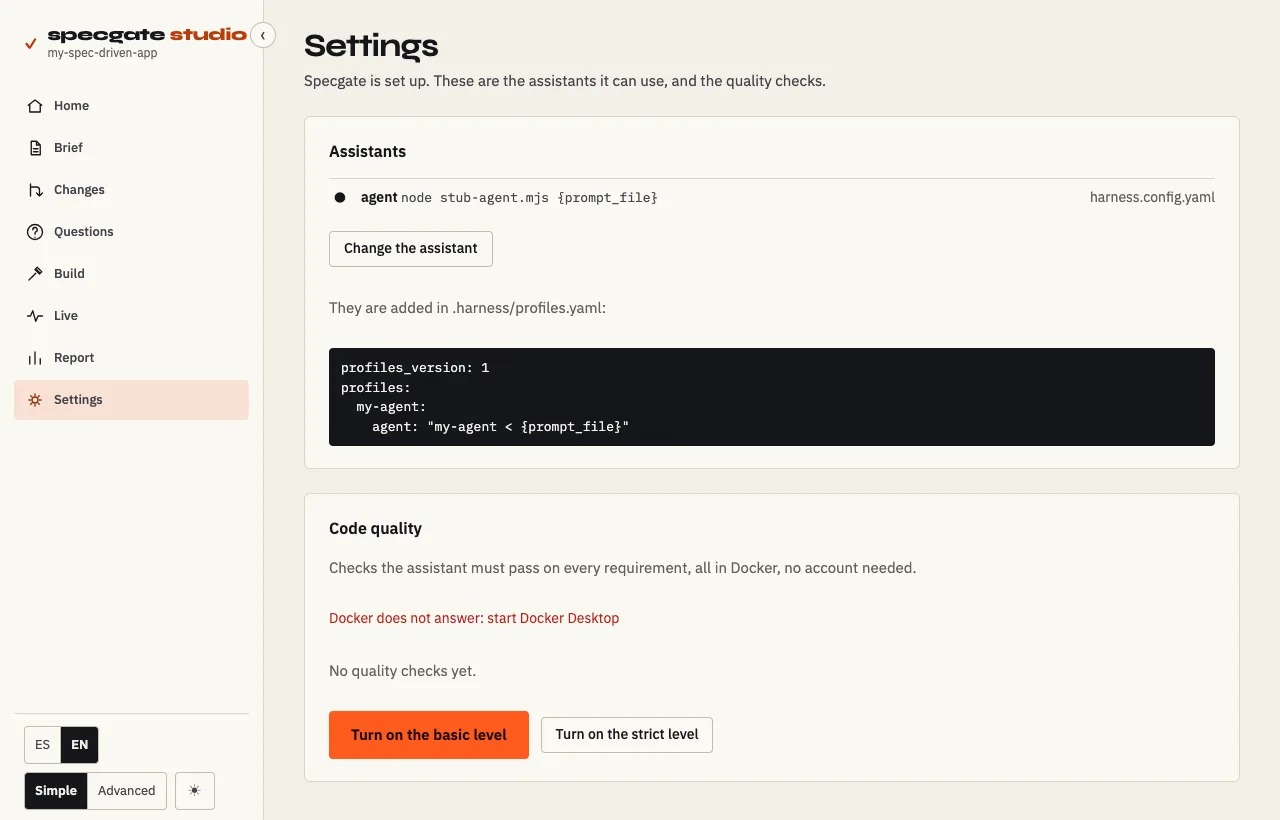
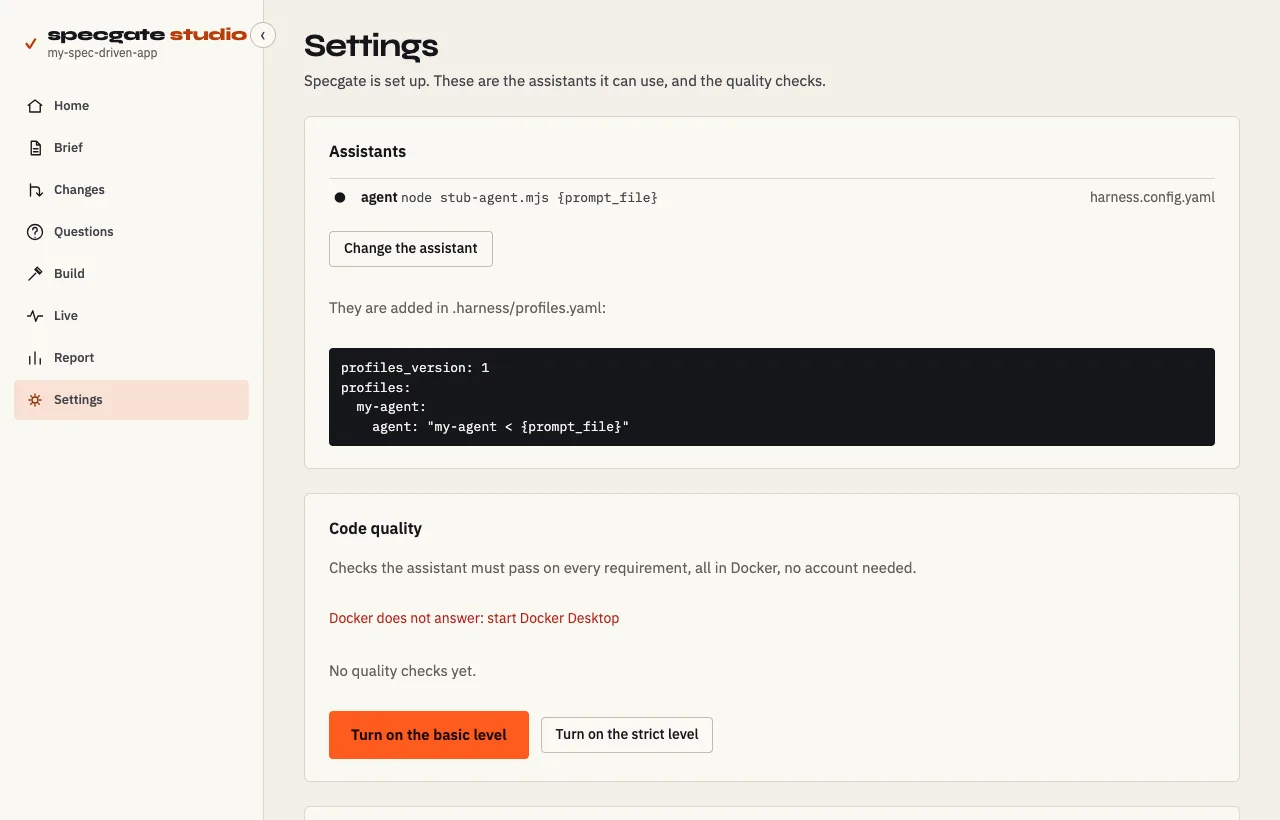
docs and the browser journey for studio-cli-parity: every change to its archive, the gate, apply, preferences and agents, adopting, ALM

Changed region(s): [[0.0, 0.8841, 0.1562, 1.0]]

diff --git a/docs/studio.md b/docs/studio.md
@@ -30,14 +30,19 @@ The sidebar holds eight sections, each at its own address (`/#/questions`,
 
 | Section | What you do there | What it runs |
 | --- | --- | --- |
-| Home | See the next step and the route | `specgate status` |
+| Home | See the next step and the route; run the gate and the doctor | `specgate status`, `check`, `doctor` |
 | Brief | Write what the app must do, or paste the client's text | `propose --from-brief` (with the agent) |
-| Changes | Have each module drafted, review it, ask for changes, approve it | `propose --from-brief <module>`, `change note`, `change approve` |
+| Changes | Every change: draft a module, review, approve, deliver a requirement, validate, archive; a new change from an idea or a ticket | `propose`, `change note`, `change approve`, `apply`, `change validate`, `archive` |
 | Questions | Decide what the brief left open, confirm the spec says it | `specgate answer`, `answer --reviewed` |
 | Build | Choose who codes, pick what is ready, start | `config set agent`, `harness run --chain` |
 | Live | Follow the run, answer the agent, stop it | the harness's events, `harness` stop |
-| Report | What was built, how it was proven, what is missing | `specgate report` |
-| Settings | Create the project; see its agents and quality checks | `specgate init`, `quality init` |
+| Report | What was built, how it was proven, what is missing; the gate | `specgate report`, `check` |
+| Settings | Create or adopt the project; its agents, preferences, quality checks and ALM | `init`, `adopt`, `config set`, `agents init`, `quality init`, `alm sync` |
+
+Every action runs a `specgate` command from a fixed list, its arguments
+checked; the studio shows the very command, its output as it grows, and how
+it ended. Anything outside that list is refused, even from the studio's own
+page.
 
 **Simple** shows no command; **Advanced** adds the brief's markdown editor,
 the ids and each agent's command. **ES · EN** switches the language, the
@@ -52,14 +57,33 @@ React, Java and Spring Boot, Python and FastAPI, or your own); which agent
 codes — the one found on this machine is already chosen; and the quality
 level. Then it creates the project there, with a brief to fill.
 
-A folder that already holds files is left alone: the studio names the command
-that adopts it (`specgate init`), which keeps them. On a project, Settings
+A folder that already holds code is adopted in place, never scaffolded over:
+**See what adopt writes** lists every file `specgate adopt` would add, then
+**Adopt this folder** writes them — no file overwritten, no code touched.
+
+On a project, Settings
 lists the agents — the profiles of `.harness/profiles.yaml`, which is the
 default and which streams tokens and cost, and a command of your own set in
 `harness.config.yaml` — with **Change the assistant**; and the quality checks:
 when each runs, whether it gates or advises, and whether Docker answers.
 
 ![Settings on a project: the agent command harness.config.yaml holds, Change the assistant, and how to add a profile; then Code quality — Docker does not answer here — with the basic and strict levels to turn on.](assets/img/studio-settings.webp)
+
+Below, **the project's preferences** as `specgate config` keeps them — the
+tests the gate runs, the architecture check, the help profile, the language,
+the agent guard, Gato — each saved with `config set`, an unknown key or value
+refused. **The agents** installs the guards for this project, for Claude Code
+or OpenCode (`agents init --tool claude-plugin`), and wires the agent tools
+(`agents init`). The guards for every project of yours stay in a terminal:
+`specgate agents install --global`.
+
+![The project's preferences: the test and architecture commands, the help profile, the language, the agent guard and Gato, each with Save.](assets/img/studio-preferences.webp)
+
+With an `alm.config.yaml`, a **Jira / Azure Boards** card shows the provider,
+the project, and whether the token's variable — say `JIRA_TOKEN` — is set in
+the environment studio was started from. It never asks for the token, shows
+it or keeps it. **See the mapping** (`alm status`), **See what sync would do**
+(`alm sync --dry-run`), then **Sync**.
 
 ## Brief
 
@@ -74,7 +98,7 @@ draft the modules** waits while one of them is an error.
 
 ![The Brief: a box to paste the client's text, the product, who uses it and on which surfaces, the modules and the selected one's rules; beside it, the checks are all in order and Next: draft the modules.](assets/img/studio-brief.webp)
 
-## Changes · draft, review, approve
+## Changes · every change, to its archive
 
 The brief's modules on the left, each with where it stands — to draft, being
 drafted, draft to review, approved, archived. **Draft** hands one to the agent
@@ -89,6 +113,19 @@ missing instead of staying grey without a reason. Below, each requirement
 with its examples as Given / When / Then, and **Ask for a change** under each.
 
 ![Changes: the orders draft to review, two open questions each with Answer, Approve the draft waiting with "2 things missing", and the draft's requirements with their examples.](assets/img/studio-changes.webp)
+
+Every change of the project is here, not only the brief's: the others are
+listed under **Other changes**, each with how many of its requirements are
+delivered. A change opens into its requirements and their status, its
+proposal and its tasks. **Deliver** runs `specgate apply` on a requirement
+coded by hand — its test first, then the gate, then Implemented — or says why
+it was refused (no test names it yet, a stage that failed). **Validate** checks
+its deltas. Once every requirement is delivered, **See what archive writes**
+previews the archive, and only then **Archive** merges it into the spec.
+**+ New change** opens one from an idea, by its id, or — with an ALM
+configured — from a ticket's key.
+
+![A change: its three requirements, each Draft with Deliver, the proposal, Validate, and the archive waiting until every requirement is delivered.](assets/img/studio-change-panel.webp)
 
 ## Questions
 
@@ -161,6 +198,12 @@ proves each requirement, what is missing and why, and the decisions taken.
 **Print / PDF** opens it to print.
 
 ![The Report: the figures, the table by module, and what the app does.](assets/img/studio-report.webp)
+
+**The gate** — on Report and on Home — runs `specgate check` as CI would: each
+stage passed, failed or not configured, and under what failed the fix it
+ships. **Doctor** runs `specgate doctor` the same way.
+
+![The gate run from the studio: Ids not compared, Specification passed, Architecture not checked, Tests not configured, and the gate passes.](assets/img/studio-gate.webp)
 
 ## Saying what it does
 

diff --git a/docs/specs/changes/studio-cli-parity/tasks.md b/docs/specs/changes/studio-cli-parity/tasks.md
@@ -15,4 +15,4 @@
 - [x] 2.5 REQ-442 — Settings: preferences, agent guards, integrations
 - [x] 2.6 REQ-443 — adopting a repository that has code
 - [x] 2.7 REQ-444 — ALM: mapping, sync previewed, sync
-- [ ] 2.8 The browser journey extended; docs/studio.md and its screenshots
+- [x] 2.8 The browser journey extended; docs/studio.md and its screenshots
